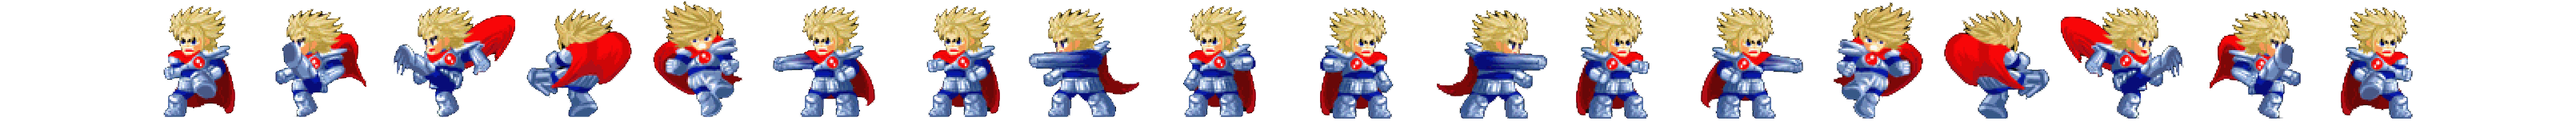
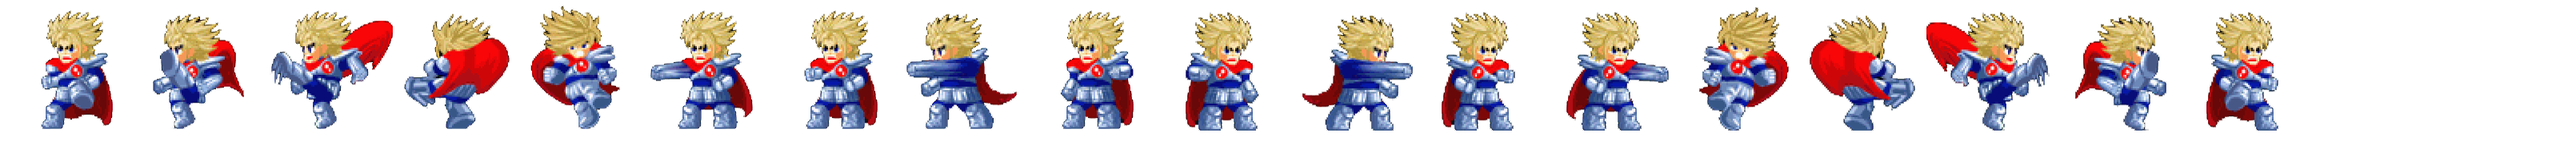
-added attack using button "D"

diff --git a/client.js b/client.js
@@ -13,6 +13,7 @@ var currentWeapon = 0 ;
 var Weapon = {};
 var weapons = [];
 var starX;
+var isWalking = true;
 var game = new Phaser.Game(800, 600, Phaser.AUTO, '', { preload: preload, create: create, update: update });
 
 
@@ -152,12 +153,13 @@ function nextWeapon() {
 
 function preload() {
     //for cropping the image
-    frameWidth = 
+    frameWidth = 150;
     game.load.image('sky', 'assets/sky.png');
     game.load.image('ground', 'assets/platform.png');
     game.load.image('star', 'assets/star.png');
     game.load.spritesheet('dude', 'assets/dude.png', 32, 48);
-    game.load.spritesheet('louis_walk','assets/louis_0.png',150, 150, -1,15,10);
+    game.load.spritesheet('louis_walk','assets/characters/louis_0.png',frameWidth, 150, -1,15,10);
+    game.load.spritesheet('louis_hit','assets/characters/louis_1.png',frameWidth,150,-1,15,10);
     for (var i = 1; i <= 11; i++)
     {
         game.load.image('bullet' + i, 'assets/bullet' + i + '.png');
@@ -208,6 +210,7 @@ function create() {
 
     // add player animation using sprite 
 
+    //player.animations.add('rightWalk', [13,14,15,16,17], 10, true);
     player.animations.add('rightWalk', [13,14,15,16,17], 10, true);
     player.animations.add('leftWalk', [7,6,5,4,3], 10, true);
     //  Finally some stars to collect
@@ -273,6 +276,8 @@ function create() {
     //  Our controls.
     cursors = game.input.keyboard.createCursorKeys();
     this.input.keyboard.addKeyCapture([Phaser.Keyboard.SPACEBAR]);
+    this.input.keyboard.addKeyCapture([Phaser.Keyboard.D]);
+
 //    var changeKey = this.input.keyboard.addKey(Phaser.Keyboard.ENTER);
 //    changeKey.onDown.add(nextWeapon, this);
 }
@@ -307,8 +312,18 @@ function update() {
     {
         //  Stand still
         player.animations.stop();
-
+        player.loadTexture('louis_walk');
+        isWalking = true;
         player.frame = 10;
+    }
+    
+    if(this.input.keyboard.isDown(Phaser.Keyboard.D)){
+        if(isWalking){
+            player.loadTexture('louis_hit');
+            isWalking= false;
+        }
+        player.animations.add('right_hit', [10,11,12,13], 10, true);
+        player.animations.play('right_hit');
     }
 
     if (this.input.keyboard.isDown(Phaser.Keyboard.SPACEBAR))
@@ -321,7 +336,6 @@ function update() {
     {
         player.body.velocity.y = -350;
     }
-
 }
 
 function fire () {
